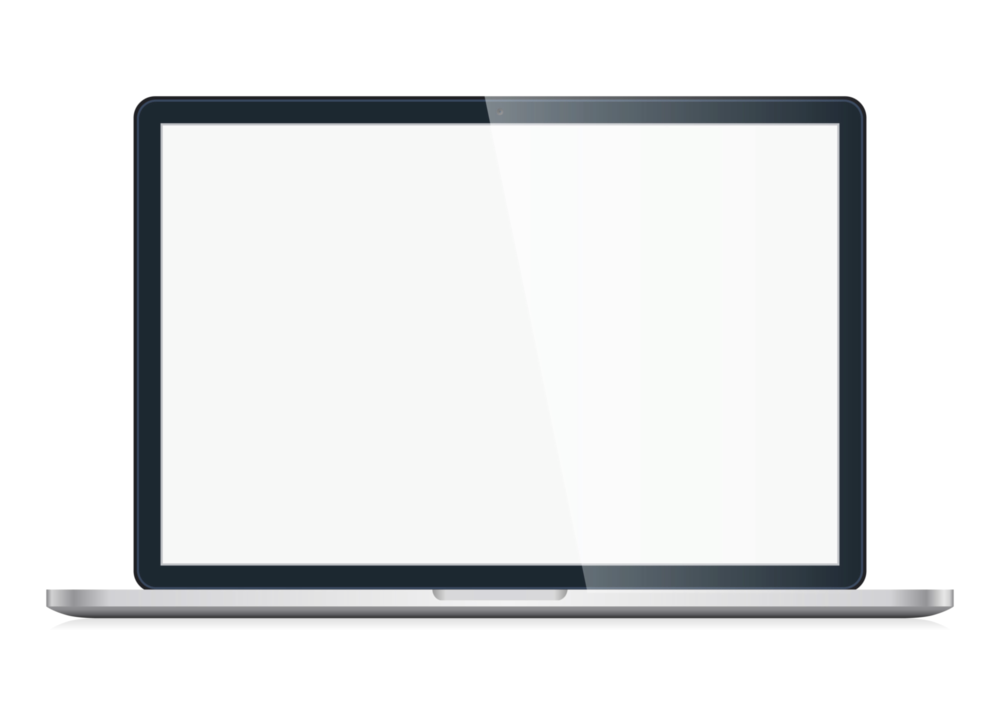
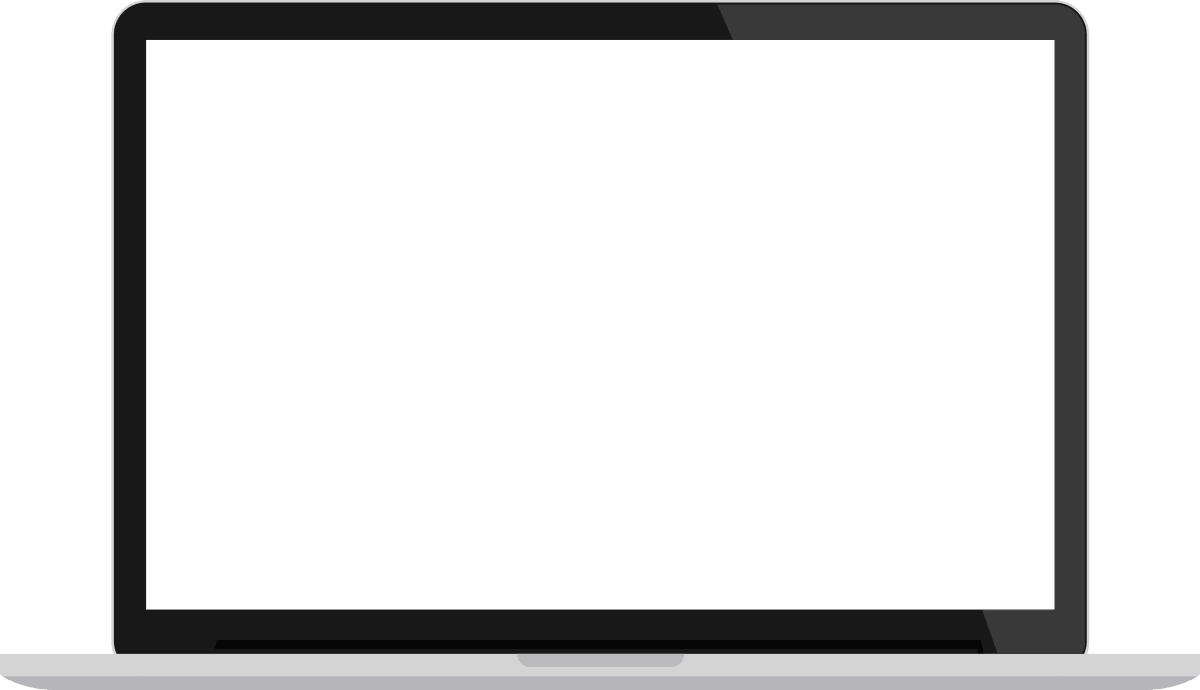
Add gif to landing page

diff --git a/landing_page/styles.css b/landing_page/styles.css
@@ -73,12 +73,28 @@ p {
   transform: translate(-121vw, -30vh) rotate(-25deg);
 }
 
-#computer {
+#demo-screen {
   width: 75%;
   height: auto;
   margin: auto;
   position: absolute;
   transform: translateX(12.5vw);
+}
+
+#screengrab {
+  width: 915px;
+  position: absolute;
+  z-index: 1;
+  bottom: 200px;
+  left: 145px;
+  overflow: hidden;
+  float: right;
+}
+
+#computer {
+  position: absolute;
+  z-index: 2;
+  bottom: 120px;
 }
 
 @media only screen and (max-width: 1390px) {
@@ -103,10 +119,13 @@ p {
   }
 }
 
-@media only screen and (max-width: 599px) {
+@media only screen and (max-width: 800px) {
+  #nav {
+    display: none;
+  }
+
   .container {
     margin: 10px 20px;
-    text-align: center;
   }
 
   #triangle {
@@ -120,15 +139,32 @@ p {
     padding-top: 4em;
     top: 0%;
     transform: translateY(0);
+    text-align: center;
+  }
+
+  #demo-screen {
+    position: absolute;
+    float: left;
+    overflow: visible;
+    margin: auto;
+    left: -22em;
+    zoom: 60%;
+  }
+
+  #screengrab {
+    width: 915px;
+    position: absolute;
+    z-index: 1;
+    bottom: 200px;
+    left: 145px;
+    overflow: hidden;
+    float: right;
   }
 
   #computer {
     position: absolute;
-    float: left;
-    overflow: auto;
-    margin: auto;
-    bottom: 50px; left: -150px;
-    width: 105%;
+    z-index: 2;
+    bottom: 120px;
   }
 
   h1, h2 {
@@ -140,14 +176,5 @@ p {
   p {
     font-size: 1.1em;
     margin: 10px 0px 25px 0px;
-  }
-}
-
-@media only screen and (min-width: 600px) {
-  #computer {
-    float: right;
-    overflow: auto;
-    margin: auto;
-    top: 0; bottom: 0; right: 0;
   }
 }

diff --git a/index.html b/index.html
@@ -43,7 +43,10 @@
       </div>
     </div>
 
-    <img id="computer" src="landing_page/laptop_mock.png" />
+    <div id="demo-screen">
+      <img id="computer" src="landing_page/laptop_glare.png" />
+      <img id="screengrab" src="landing_page/demo.gif" />
+    </div>
 
   </div>
 
